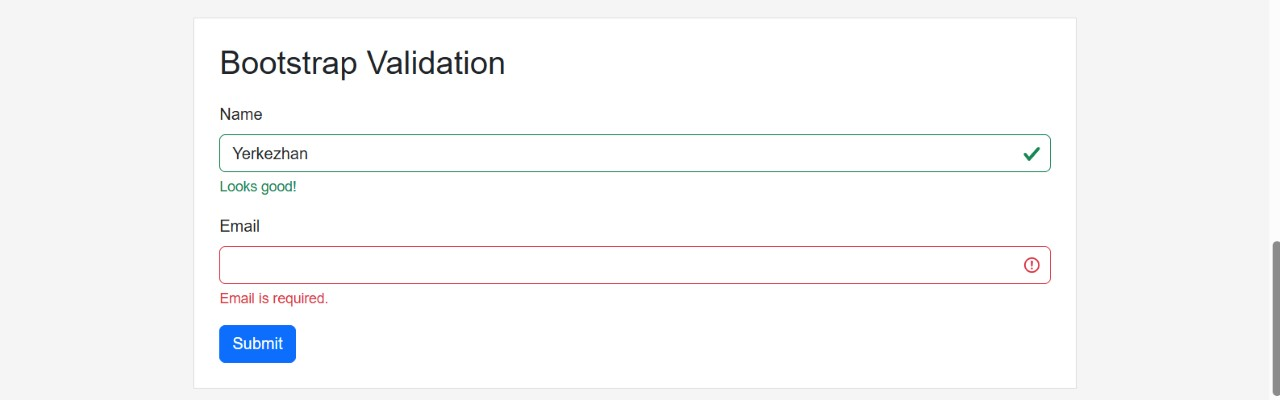
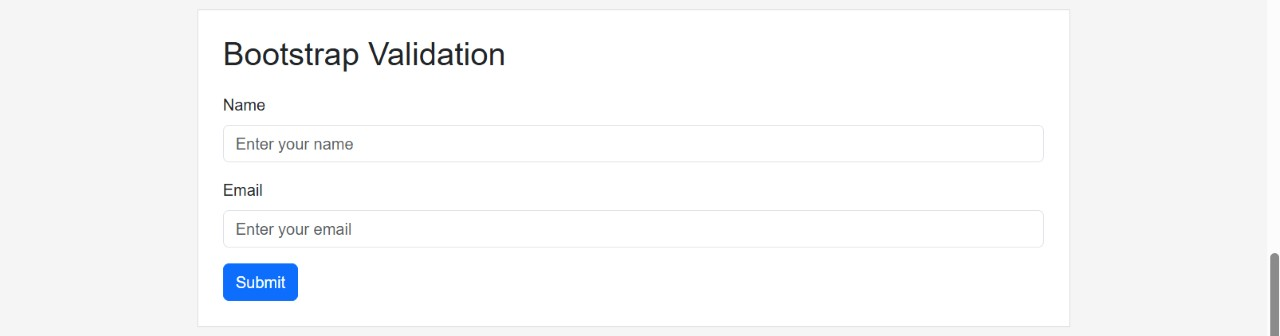
Add files via upload

diff --git a/web1assignment4/index.html b/web1assignment4/index.html
@@ -127,42 +127,39 @@
         <h2>Bootstrap Validation</h2>
 
         <form>
-
             <div class="mb-3">
                 <label for="validName" class="form-label">Name</label>
 
-                <input
-                    type="text"
-                    class="form-control is-valid"
-                    id="validName"
-                    value="Yerkezhan"
-                >
+                <input type="text" id="validName" 
+                class="form-control" placeholder="Enter your name" required>
 
                 <div class="valid-feedback">
                     Looks good!
                 </div>
-            </div>
 
+                <div class="invalid-feedback">
+                    Name is required.
+                </div>
+            </div>
 
             <div class="mb-3">
                 <label for="invalidEmail" class="form-label">Email</label>
 
-                <input
-                    type="email"
-                    class="form-control is-invalid"
-                    id="invalidEmail"
-                >
+                <input type="email" id="invalidEmail"
+                class="form-control" placeholder="Enter your email" required>
+
+                <div class="valid-feedback">
+                    Looks good!
+                </div>
 
                 <div class="invalid-feedback">
-                    Email is required.
+                    Please enter a valid email.
                 </div>
             </div>
-
 
             <button type="submit" class="btn btn-primary">
                 Submit
             </button>
-
         </form>
     </section>
 
@@ -170,7 +167,6 @@
         <h2>Registration Form</h2>
 
         <form>
-
             <div class="row">
 
                 <div class="col-md-6 mb-3">
@@ -180,12 +176,20 @@
 
                     <input
                         type="text"
-                        class="form-control"
+                        class="form-control validation-input"
                         id="firstName"
+                        placeholder="Enter first name"
                         required
                     >
-                </div>
 
+                    <div class="valid-feedback">
+                        Looks good!
+                    </div>
+
+                    <div class="invalid-feedback">
+                        First name is required.
+                    </div>
+                </div>
 
                 <div class="col-md-6 mb-3">
                     <label for="lastName" class="form-label">
@@ -194,12 +198,20 @@
 
                     <input
                         type="text"
-                        class="form-control"
+                        class="form-control validation-input"
                         id="lastName"
+                        placeholder="Enter last name"
                         required
                     >
-                </div>
 
+                    <div class="valid-feedback">
+                        Looks good!
+                    </div>
+
+                    <div class="invalid-feedback">
+                        Last name is required.
+                    </div>
+                </div>
 
                 <div class="col-12 mb-3">
                     <label for="email4" class="form-label">
@@ -208,12 +220,20 @@
 
                     <input
                         type="email"
-                        class="form-control"
+                        class="form-control validation-input"
                         id="email4"
+                        placeholder="Enter email"
                         required
                     >
-                </div>
 
+                    <div class="valid-feedback">
+                        Looks good!
+                    </div>
+
+                    <div class="invalid-feedback">
+                        Please enter a valid email.
+                    </div>
+                </div>
 
                 <div class="col-md-6 mb-3">
                     <label for="password" class="form-label">
@@ -222,13 +242,21 @@
 
                     <input
                         type="password"
-                        class="form-control"
+                        class="form-control validation-input"
                         id="password"
+                        placeholder="Minimum 6 characters"
                         minlength="6"
                         required
                     >
-                </div>
 
+                    <div class="valid-feedback">
+                        Looks good!
+                    </div>
+
+                    <div class="invalid-feedback">
+                        Password must contain at least 6 characters.
+                    </div>
+                </div>
 
                 <div class="col-md-6 mb-3">
                     <label for="confirmPassword" class="form-label">
@@ -237,13 +265,21 @@
 
                     <input
                         type="password"
-                        class="form-control"
+                        class="form-control validation-input"
                         id="confirmPassword"
+                        placeholder="Confirm password"
                         minlength="6"
                         required
                     >
-                </div>
 
+                    <div class="valid-feedback">
+                        Looks good!
+                    </div>
+
+                    <div class="invalid-feedback">
+                        Please enter at least 6 characters.
+                    </div>
+                </div>
 
                 <div class="col-12 mb-3">
                     <label class="form-label">Gender</label>
@@ -271,7 +307,6 @@
                         </div>
                     </div>
                 </div>
-
 
                 <div class="col-12 mb-3">
                     <label class="form-label">Hobbies</label>
@@ -309,7 +344,6 @@
                     </div>
                 </div>
 
-
                 <div class="col-md-6 mb-3">
                     <label for="country" class="form-label">
                         Country
@@ -328,9 +362,7 @@
                     </select>
                 </div>
 
-
                 <div class="col-12">
-
                     <button
                         type="submit"
                         class="btn btn-success"
@@ -344,11 +376,9 @@
                     >
                         Reset
                     </button>
-
                 </div>
 
             </div>
-
         </form>
     </section>
 

diff --git a/web1assignment4/style.css b/web1assignment4/style.css
@@ -70,3 +70,18 @@ button {
         padding: 15px;
     }
 }
+
+/* Hide validation messages at first */
+.valid-feedback,
+.invalid-feedback {
+    display: none;
+}
+
+/* Show messages when the user enters data */
+input:valid:not(:placeholder-shown) ~ .valid-feedback {
+    display: block;
+}
+
+input:invalid:not(:placeholder-shown) ~ .invalid-feedback {
+    display: block;
+}
